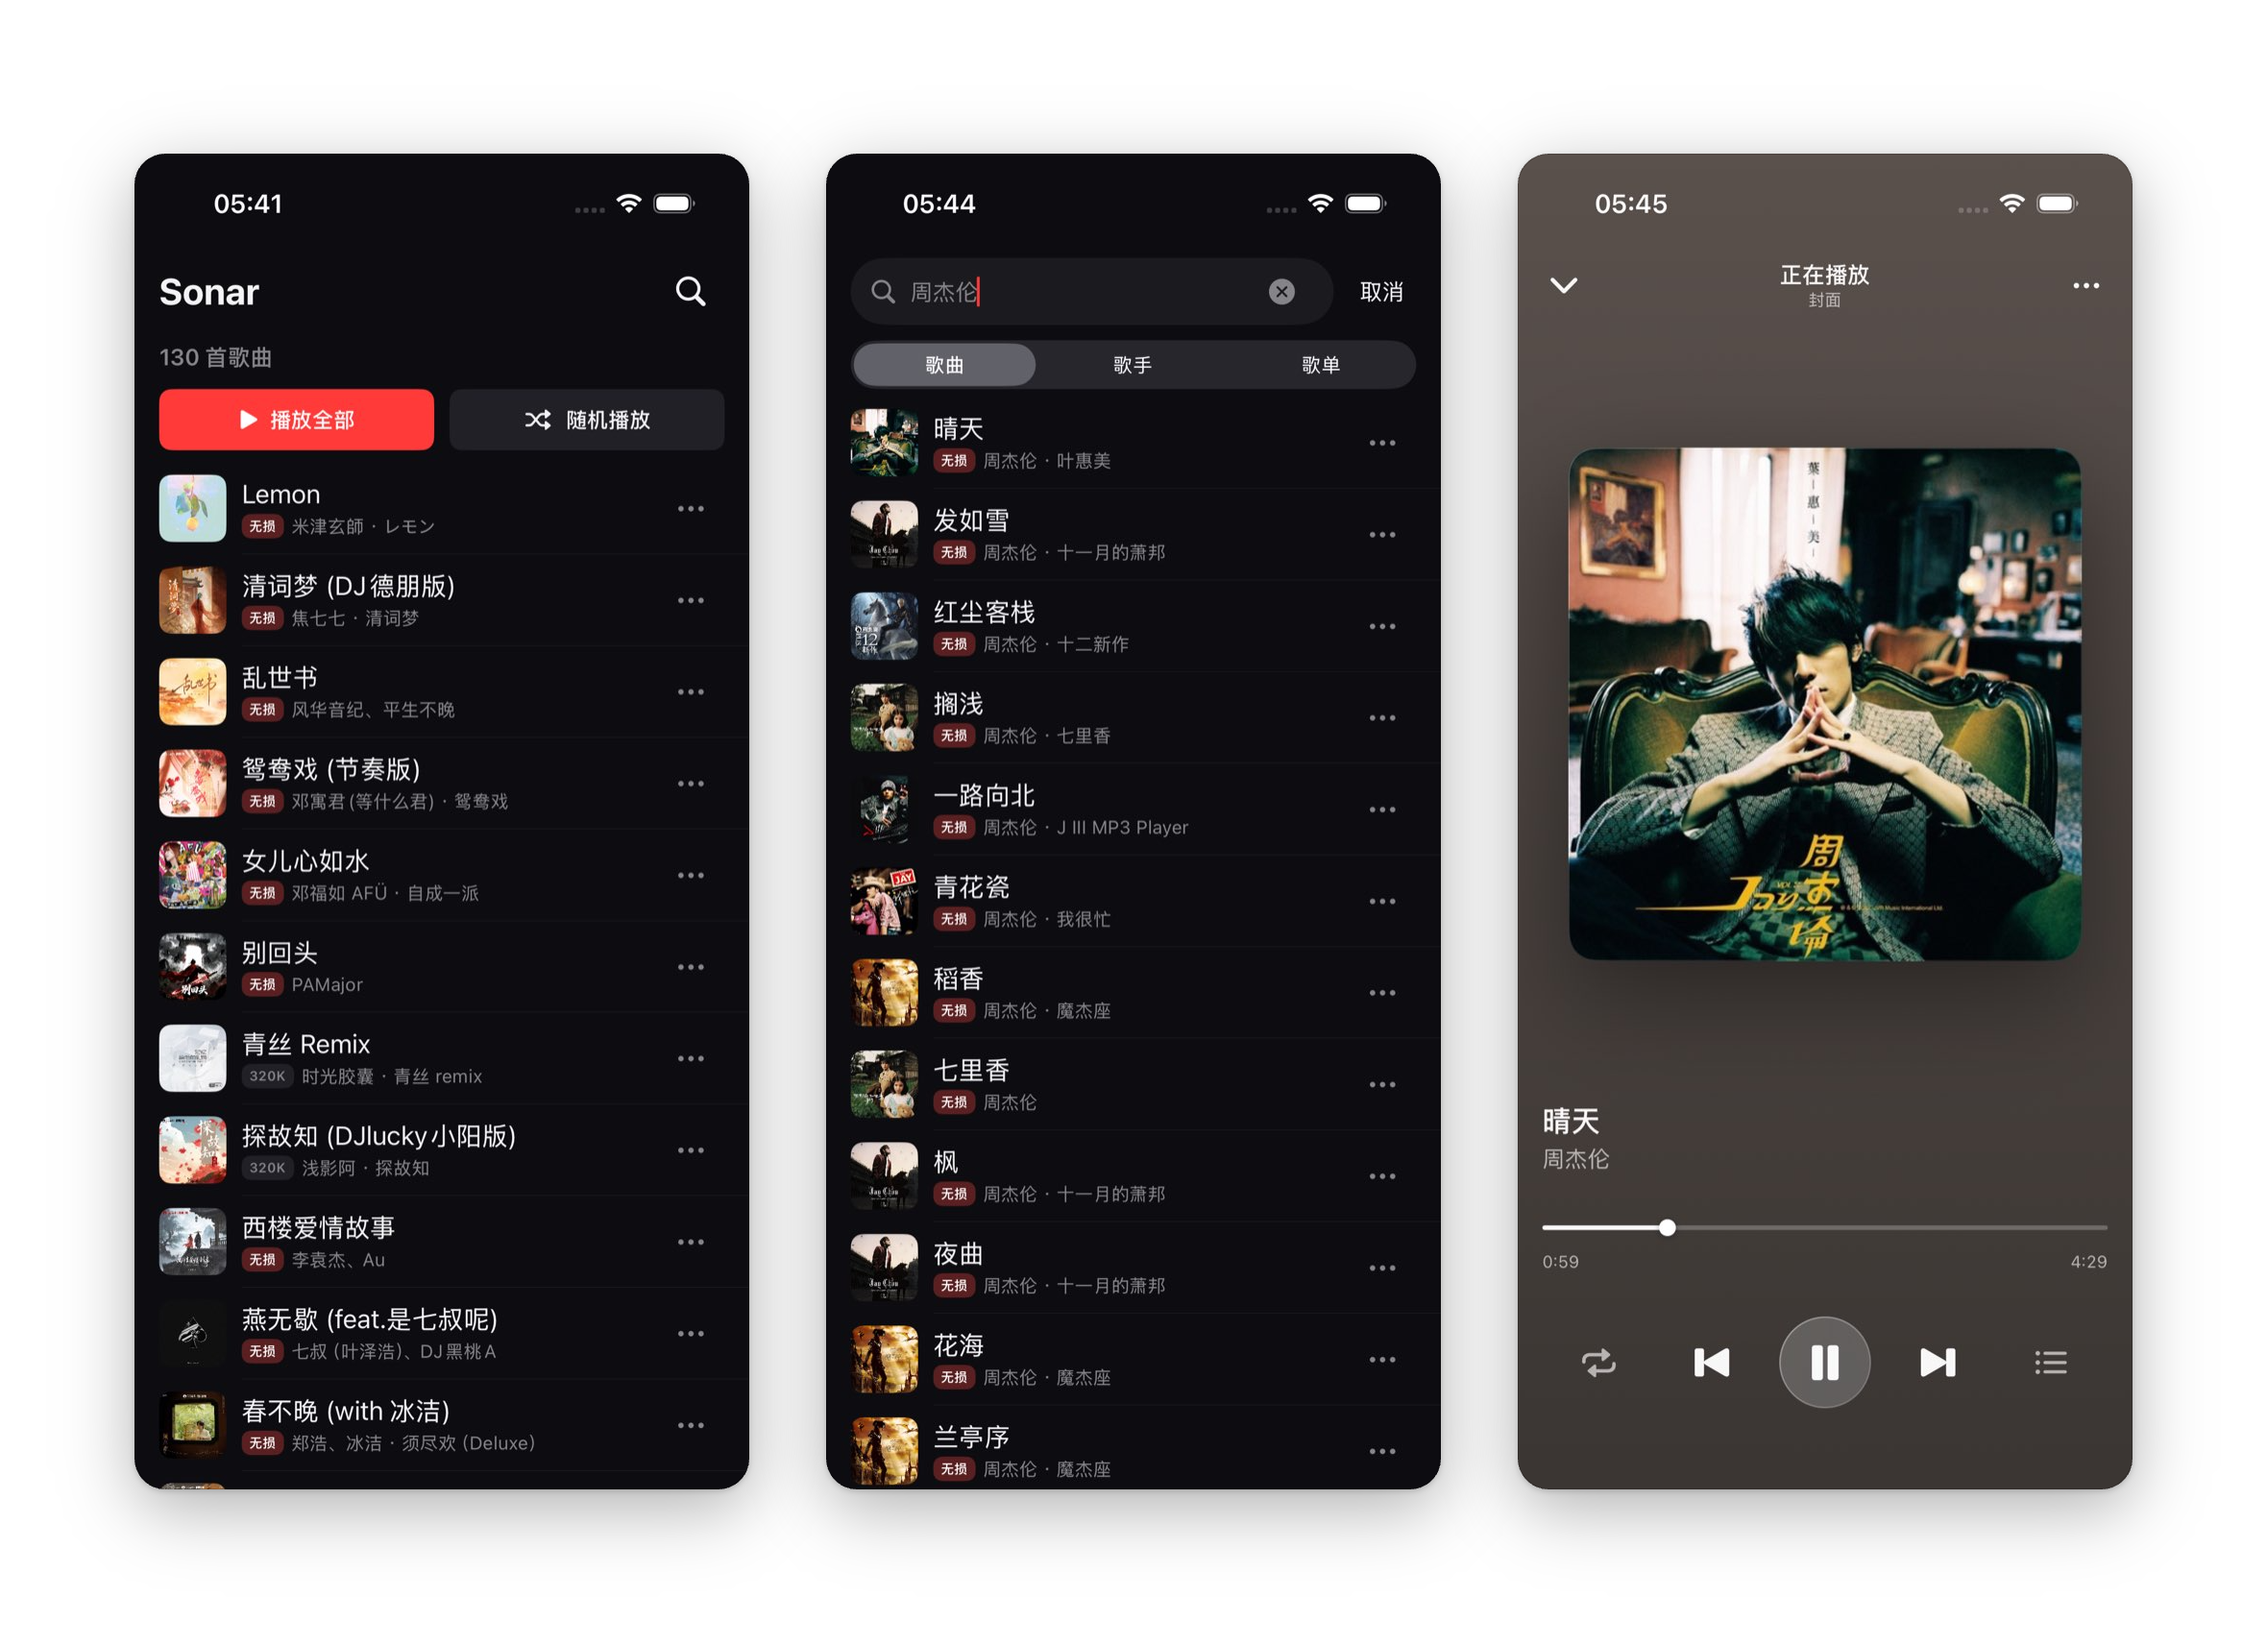
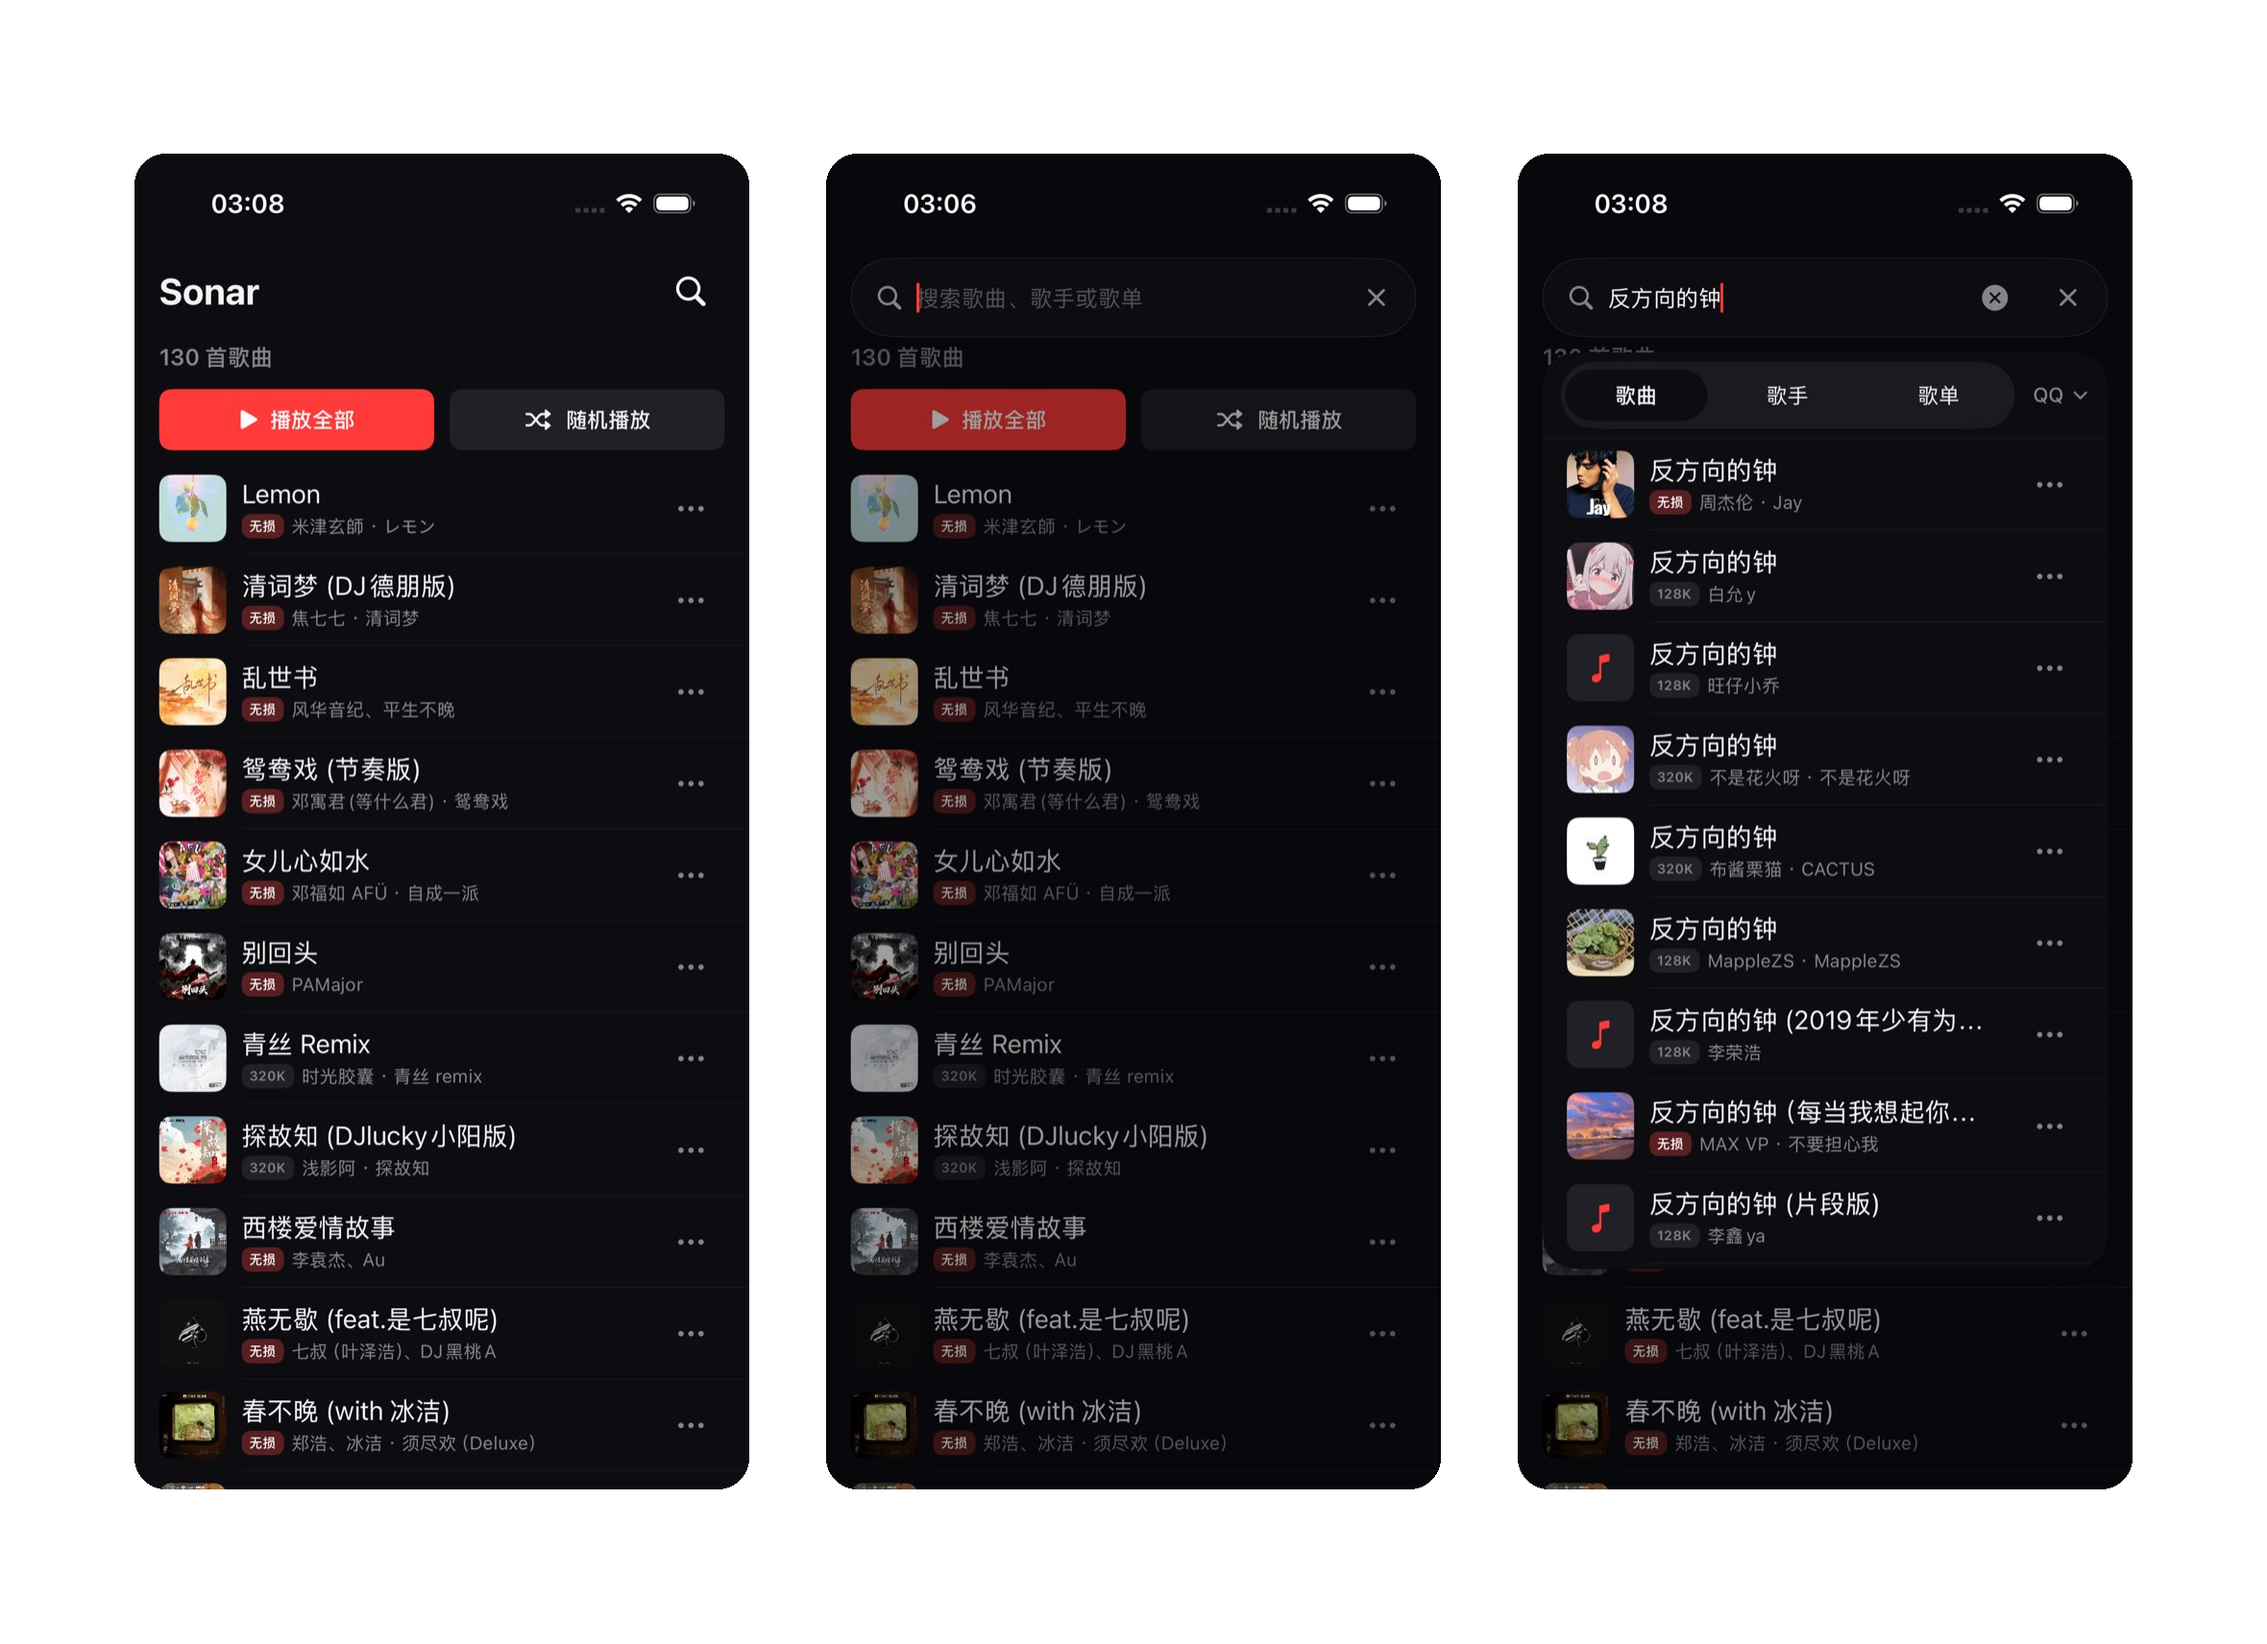
docs(readme): 更新原页搜索交互截图

diff --git a/README.md b/README.md
@@ -29,8 +29,10 @@
 ### iOS
 
 <p align="center">
-  <a href="assets/previews/ios-main.png"><img src="assets/previews/ios-main.png" width="900" alt="iOS 歌单、搜索与播放器实图" /></a>
+  <a href="assets/previews/ios-main.png"><img src="assets/previews/ios-main.png" width="900" alt="iOS 歌单、原页搜索遮罩与搜索结果实图" /></a>
 </p>
+
+搜索在原页面展开，保留歌单背景；输入关键词后在遮罩中显示结果。
 
 <p align="center">
   <a href="assets/previews/ios-details.png"><img src="assets/previews/ios-details.png" width="900" alt="iOS 同步歌词、设置与歌单备份实图" /></a>
